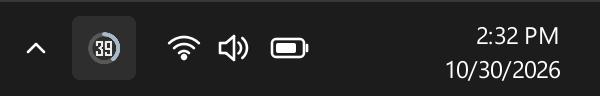
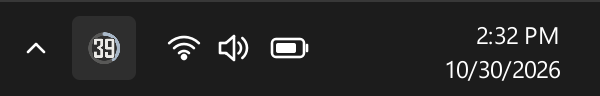
Tray number large again; the ring gets a gap cut around it
Smaller digits made the ring readable but the number hard to read, and a
tray icon cannot be larger than the slot the OS gives it (16 px at 100 %,
20 px at 125 % on Windows). The digits go back to the largest that fit
(6x11 at 20-24 px), with the ring at 11 % of the icon, and a pixel of the
ring is cleared around each digit pixel (around the outline for the font
sizes), so where a digit's corner meets the ring both stay distinct.

Changed region(s): [[0.15, 0.375, 0.21, 0.625]]

diff --git a/quotaring/app.py b/quotaring/app.py
@@ -8,9 +8,9 @@ import os
 import sys
 import time
 
-from PySide6.QtCore import QLockFile, QObject, QPoint, QPointF, QRectF, QRunnable, Qt, QThreadPool, QTimer, QUrl, Signal
+from PySide6.QtCore import QLockFile, QObject, QPoint, QPointF, QRect, QRectF, QRunnable, Qt, QThreadPool, QTimer, QUrl, Signal
 from PySide6.QtGui import (QAction, QColor, QDesktopServices, QFont, QFontDatabase, QFontMetricsF, QIcon, QPainter,
-                           QPen, QPixmap)
+                           QPainterPath, QPen, QPixmap)
 from PySide6.QtWidgets import QApplication, QMenu, QSystemTrayIcon
 
 from . import __version__, alerts, autostart, paths, pricing, settings as settings_mod, traypin, updater, viewmodel
@@ -78,6 +78,18 @@ _DIGITS_5x9 = {
     "8": ".###.|##.##|##.##|##.##|.###.|##.##|##.##|##.##|.###.",
     "9": ".###.|##.##|##.##|##.##|.####|...##|...##|...##|.###.",
 }
+_DIGITS_6x11 = {
+    "0": ".####.|##..##|##..##|##..##|##..##|##..##|##..##|##..##|##..##|##..##|.####.",
+    "1": "..##..|.###..|..##..|..##..|..##..|..##..|..##..|..##..|..##..|..##..|..##..",
+    "2": ".####.|##..##|....##|....##|...##.|..##..|.##...|##....|##....|##....|######",
+    "3": ".####.|##..##|....##|....##|....##|..###.|....##|....##|....##|##..##|.####.",
+    "4": "....##|...###|..####|.##.##|##..##|##..##|######|....##|....##|....##|....##",
+    "5": "######|##....|##....|##....|#####.|....##|....##|....##|....##|##..##|.####.",
+    "6": ".####.|##....|##....|##....|#####.|##..##|##..##|##..##|##..##|##..##|.####.",
+    "7": "######|....##|....##|....##|...##.|...##.|..##..|..##..|..##..|..##..|..##..",
+    "8": ".####.|##..##|##..##|##..##|##..##|.####.|##..##|##..##|##..##|##..##|.####.",
+    "9": ".####.|##..##|##..##|##..##|##..##|.#####|....##|....##|....##|....##|.####.",
+}
 _DIGITS_3x7 = {
     "0": "###|#.#|#.#|#.#|#.#|#.#|###",
     "1": ".#|##|.#|.#|.#|.#|.#",
@@ -92,15 +104,15 @@ _DIGITS_3x7 = {
 }
 _DIGITS_100 = {**_DIGITS_5x9, "1": ".##|###|.##|.##|.##|.##|.##|.##|.##"}
 # Icon size -> ((glyphs, scale) for up to two digits, (glyphs, scale) for three). Larger sizes draw
-# the font. The digits keep a gap to the ring, so the ring reads as one at a glance.
+# the font. The digits are as large as the ring leaves room for, about a pixel inside it.
 _PIXEL_DIGITS = {
-    16: ((_DIGITS_3x7, 1), (_DIGITS_3x7, 1)),
-    20: ((_DIGITS_5x9, 1), (_DIGITS_3x7, 1)),
-    22: ((_DIGITS_5x9, 1), (_DIGITS_3x7, 1)),
-    24: ((_DIGITS_5x9, 1), (_DIGITS_3x7, 1)),
-    30: ((_DIGITS_3x7, 2), (_DIGITS_100, 1)),
-    32: ((_DIGITS_3x7, 2), (_DIGITS_100, 1)),
-    40: ((_DIGITS_5x9, 2), (_DIGITS_3x7, 2)),
+    16: ((_DIGITS_5x9, 1), (_DIGITS_3x7, 1)),
+    20: ((_DIGITS_6x11, 1), (_DIGITS_3x7, 1)),
+    22: ((_DIGITS_6x11, 1), (_DIGITS_3x7, 1)),
+    24: ((_DIGITS_6x11, 1), (_DIGITS_100, 1)),
+    30: ((_DIGITS_5x9, 2), (_DIGITS_3x7, 2)),
+    32: ((_DIGITS_5x9, 2), (_DIGITS_3x7, 2)),
+    40: ((_DIGITS_6x11, 2), (_DIGITS_3x7, 2)),
 }
 
 
@@ -127,7 +139,7 @@ def make_ring_icon(ring: dict, show_remaining: bool, p: theme.Palette) -> QIcon:
         pm.fill(QColor(0, 0, 0, 0))
         painter = QPainter(pm)
         painter.setRenderHint(QPainter.Antialiasing)
-        lw = max(2.0, size * 0.13)  # thick enough to read as a ring beside the number
+        lw = max(2.0, size * 0.11)  # thick enough to read as a ring beside the number
         rect = QRectF(lw / 2, lw / 2, size - lw, size - lw)
         painter.setPen(QPen(track, lw))
         painter.drawEllipse(rect)
@@ -142,28 +154,39 @@ def make_ring_icon(ring: dict, show_remaining: bool, p: theme.Palette) -> QIcon:
             glyphs, k = pixel
             w = (sum(len(g[0]) for g in glyphs) + len(glyphs) - 1) * k
             x, y = (size - w) // 2, (size - len(glyphs[0]) * k + 1) // 2
+            lit = []
             for g in glyphs:
                 for r, row in enumerate(g):
                     for c, ch in enumerate(row):
                         if ch == "#":
-                            painter.fillRect(x + c * k, y + r * k, k, k, color)
+                            lit.append(QRect(x + c * k, y + r * k, k, k))
                 x += (len(g[0]) + 1) * k
+            # The digits fill the ring, so their corners reach it: a gap is cut around them.
+            painter.setCompositionMode(QPainter.CompositionMode_Clear)
+            for px_rect in lit:
+                painter.fillRect(px_rect.adjusted(-1, -1, 1, 1), Qt.transparent)
+            painter.setCompositionMode(QPainter.CompositionMode_SourceOver)
+            for px_rect in lit:
+                painter.fillRect(px_rect, color)
             painter.end()
             icon.addPixmap(pm)
             continue
-        # The number large, with a gap to the ring.
+        # The number as large as the inside of the ring allows: tray icons are tiny.
         font = _tray_font()
         px = round(inner * 1.3)
         while True:
             font.setPixelSize(px)
             ink = QFontMetricsF(font).tightBoundingRect(text)
-            if px <= 6 or (ink.width() <= inner * 0.8 and ink.height() <= inner * 0.66):
+            if px <= 6 or (ink.width() <= inner * 0.92 and ink.height() <= inner * 0.78):
                 break
             px -= 1
-        painter.setFont(font)
-        painter.setPen(color)
         # Centred on the digits' ink, not the font's line box, so they sit in the ring's middle.
-        painter.drawText(QPointF((size - ink.width()) / 2 - ink.x(), (size - ink.height()) / 2 - ink.y()), text)
+        path = QPainterPath()
+        path.addText(QPointF((size - ink.width()) / 2 - ink.x(), (size - ink.height()) / 2 - ink.y()), font, text)
+        painter.setCompositionMode(QPainter.CompositionMode_Clear)
+        painter.strokePath(path, QPen(Qt.transparent, size / 24, Qt.SolidLine, Qt.RoundCap, Qt.RoundJoin))
+        painter.setCompositionMode(QPainter.CompositionMode_SourceOver)
+        painter.fillPath(path, color)
         painter.end()
         icon.addPixmap(pm)
     return icon

diff --git a/CHANGELOG.md b/CHANGELOG.md
@@ -7,8 +7,8 @@ The format follows [Keep a Changelog](https://keepachangelog.com/en/1.1.0/), and
 ## [Unreleased]
 
 ### Changed
-- The tray icon's ring is thicker and its number smaller, with a gap between them, so the ring
-  reads at a glance instead of disappearing behind the digits.
+- The tray icon's ring is thicker and keeps a one-pixel gap around the number, so the number stays
+  as large as the icon allows and the ring still reads at a glance.
 
 ## [0.2.3] - 2026-10-30
 
